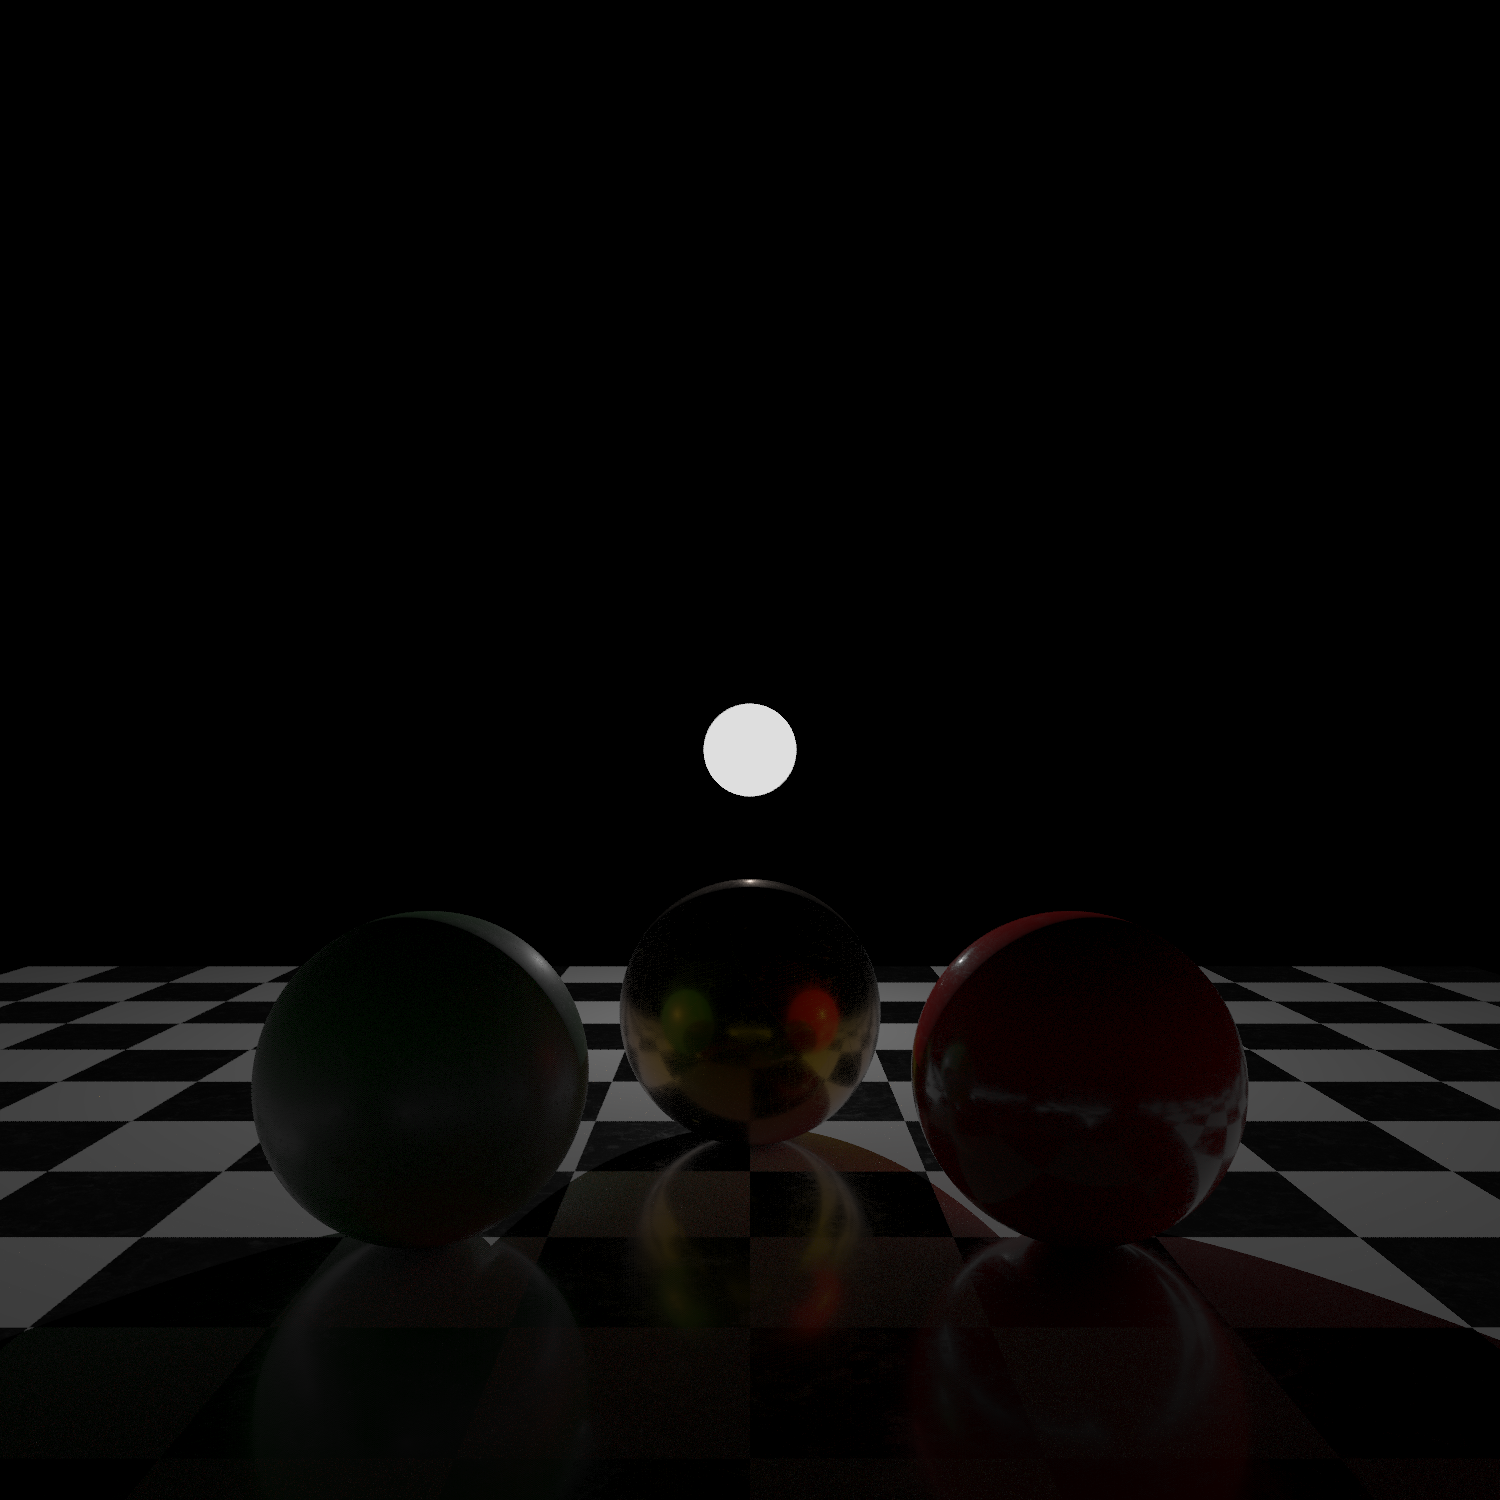
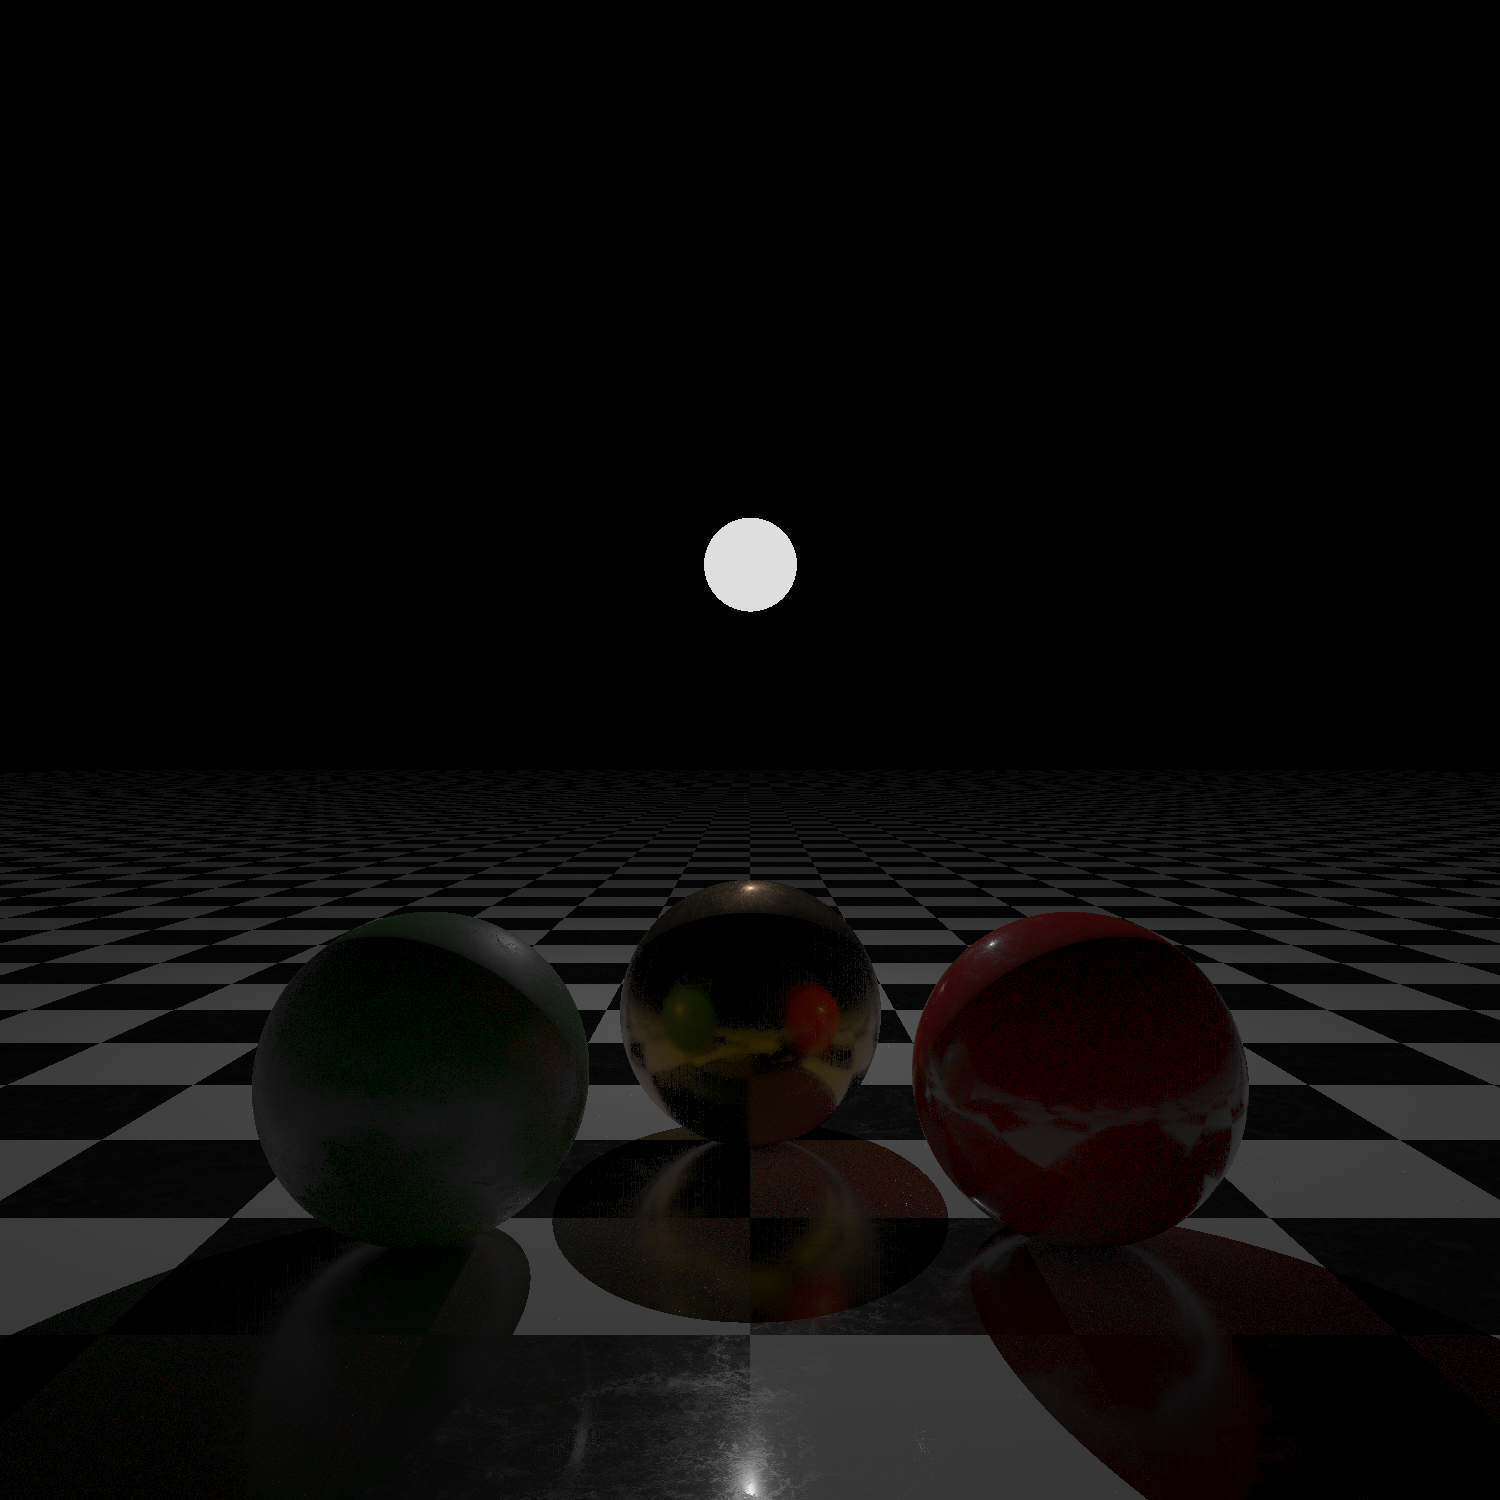
diffuse test scene

diff --git a/src/cgg/a07/Scene.java b/src/cgg/a07/Scene.java
@@ -17,31 +17,55 @@ public class Scene implements Stage
 	private ArrayList<Illumination> lights;
 	private ArrayList<Geometry> emitter;
 
+	// textures
+	private ImageTexture tex_checker;
+
 	// materials
 	private ImageTexture mat_fabric;
+	private ImageTexture mat_plastic;
+	private ImageTexture mat_gold;
+	private ImageTexture mat_marble;
+
+	// normal maps
+	private NormalMap nrm_plastic;
+	private NormalMap nrm_gold;
+	private NormalMap nrm_marble;
 
 	public Scene()
 	{
 		// setup
-		this.camera = new Camera(vec3(0,-1,0),vec3(20,0,0));
+		//this.camera = new Camera(vec3(0,-1,0),vec3(20,0,0));
+		this.camera = new Camera(vec3(0,-1,0),vec3(0,0,0));
 		this.groot = new GraphNode();
 		this.lights = new ArrayList<Illumination>();
 		this.emitter = new ArrayList<Geometry>();
 
+		// textures
+		this.tex_checker = new ImageTexture("./res/checker_neo.png");
+
 		// material
 		this.mat_fabric = new ImageTexture("./res/fabric/material.png");
+		this.mat_plastic = new ImageTexture("./res/plastic/material.png");
+		this.mat_gold = new ImageTexture("./res/gold/material.png");
+		this.mat_marble = new ImageTexture("./res/marble/material.png");
+
+		// normal maps
+		this.nrm_plastic = new NormalMap("./res/plastic/normals.png");
+		this.nrm_gold = new NormalMap("./res/gold/normals.png");
+		this.nrm_marble = new NormalMap("./res/marble/normals.png");
 
 		// geometry
-		//_testing();
-		_flooring(vec3(0,3,-50),100);
-		groot.register_geometry(_diceStack(vec3(0,2,-7)));
+		_testing();
+		_flooring(vec3(0,1,-50),100);
+		//groot.register_geometry(_diceStack(vec3(0,2,-7)));
 		//groot.register_geometry(_die(vec3(0,2,-7),color(.7,0,0),1,1,.2));
 
 		// assemble
 		groot.update_bounds();
 
 		// lighting
-		_craeveTheVorbiddenLaemp(vec3(0,-2,-10),color(1,1,1),.7);
+		_craeveTheVorbiddenLaemp(vec3(0,-2,-7),color(1,1,1),.4);
+		//_craeveTheVorbiddenLaemp(vec3(-2,-2,0),color(1,1,1),.4);
 	}
 
 	private Geometry _diceStack(Vec3 position)
@@ -89,9 +113,27 @@ public class Scene implements Stage
 		return __Node;
 	}
 
+	private void _testing()
+	{
+		GraphNode __Node = new GraphNode(vec3(0,0,-4),vec3(1),vec3(0));
+		__Node.register_geometry(new Sphere(vec3(-1,0,0),.5,
+							  new PhysicalMaterial(color(0,.05,0),mat_plastic,1),
+							  nrm_plastic));
+		__Node.register_geometry(new Sphere(vec3(0,0,-1),.5,
+							  new PhysicalMaterial(color(.75,.25,0),mat_gold,1),
+							  nrm_gold));
+		__Node.register_geometry(new Sphere(vec3(1,0,0),.5,
+							  new PhysicalMaterial(color(.75,0,0),mat_marble,1),
+							  nrm_marble));
+
+		// write
+		__Node.update_bounds();
+		groot.register_geometry(__Node);
+	}
+
 	private void _flooring(Vec3 position,int size)
 	{
-		groot.register_geometry(new Box(position,size,1,size,new PhysicalMaterial(color(0,.5,0),mat_fabric,4)));
+		groot.register_geometry(new Box(position,size,1,size,new PhysicalMaterial(tex_checker,mat_marble,30)));
 	}
 
 	private void _craeveTheVorbiddenLaemp(Vec3 position,Color colour,double intensity)

diff --git a/src/cgg/Config.java b/src/cgg/Config.java
@@ -7,8 +7,8 @@ import static tools.Functions.*;
 public class Config
 {
 	// view
-	public static final int WIDTH = 400;
-	public static final int HEIGHT = 400;
+	public static final int WIDTH = 1500;
+	public static final int HEIGHT = 1500;
 	public static final int FOV = 60;
 	public static final double EXPOSURE = 1.;
 	public static final double NEAR = .0001;
